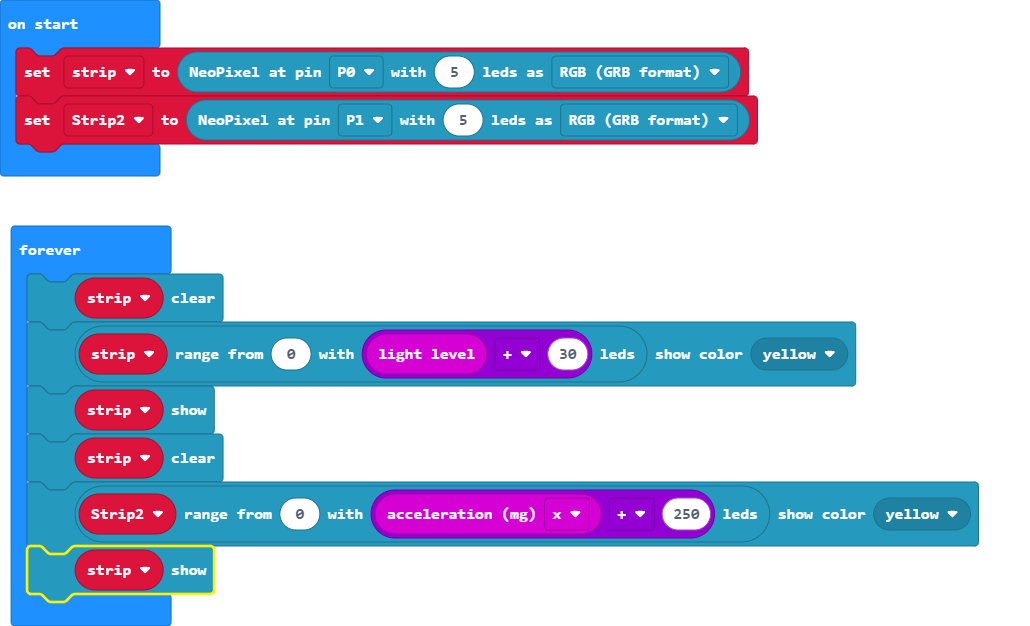
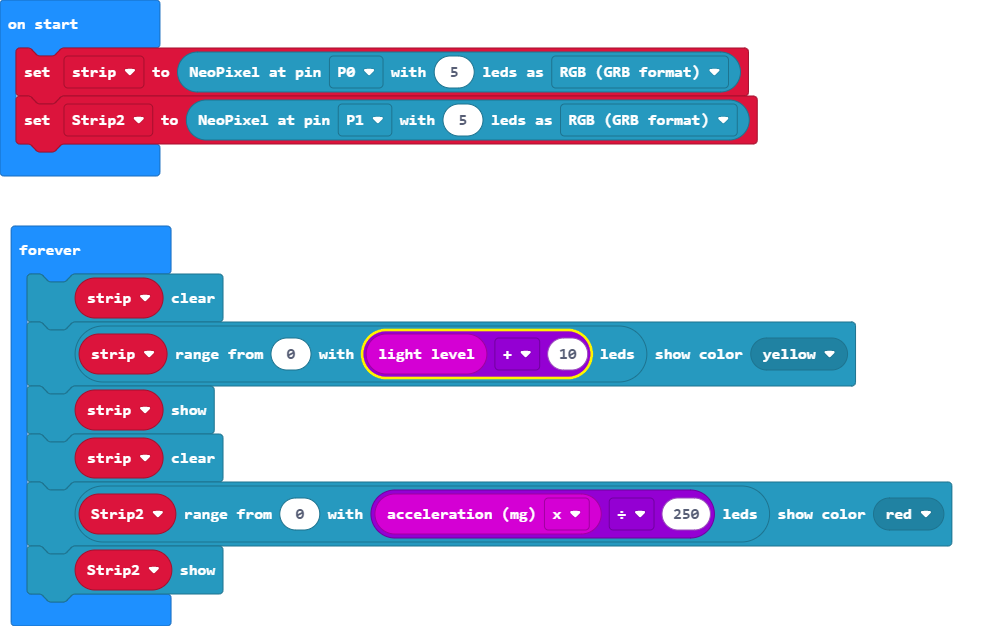
Update main.blocks, main.ts

diff --git a/main.ts b/main.ts
@@ -2,9 +2,9 @@ let strip = neopixel.create(DigitalPin.P0, 5, NeoPixelMode.RGB)
 let Strip2 = neopixel.create(DigitalPin.P1, 5, NeoPixelMode.RGB)
 basic.forever(function () {
     strip.clear()
-    strip.range(0, input.lightLevel() + 30).showColor(neopixel.colors(NeoPixelColors.Yellow))
+    strip.range(0, input.lightLevel() + 10).showColor(neopixel.colors(NeoPixelColors.Yellow))
     strip.show()
     strip.clear()
-    Strip2.range(0, input.acceleration(Dimension.X) + 250).showColor(neopixel.colors(NeoPixelColors.Yellow))
-    strip.show()
+    Strip2.range(0, input.acceleration(Dimension.X) / 250).showColor(neopixel.colors(NeoPixelColors.Red))
+    Strip2.show()
 })
